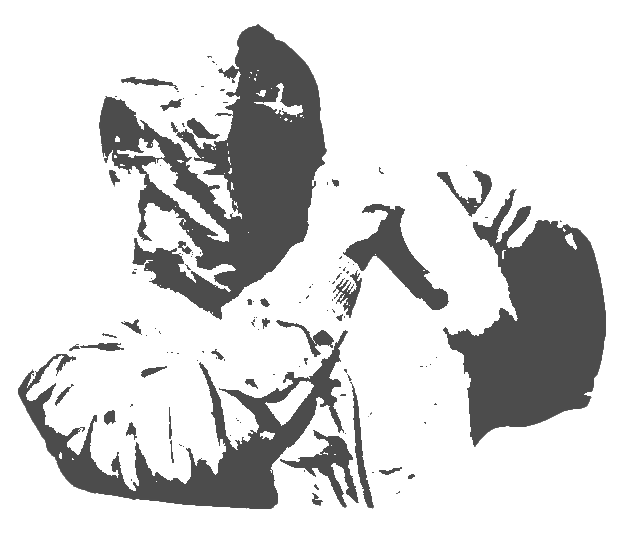
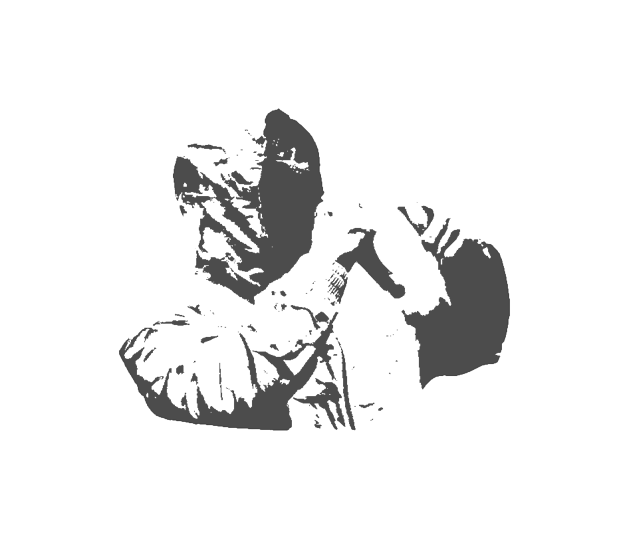
commit changes

Changed region(s): [[0.0303, 0.0297, 0.9682, 0.9517], [0.6959, 0.2974, 0.7261, 0.3569], [0.4841, 0.9219, 0.5143, 0.9517]]

diff --git a/docs/index.html b/docs/index.html
@@ -23,7 +23,7 @@
             height: max-content;
             padding: 10px;
             margin: 10px;
-            opacity: 0.9; /* Set default transparency for all image containers */
+            opacity: 1; /* Set default transparency for all image containers */
             transition: opacity 0.3s ease; /* Smooth transition for opacity */
         }
 
@@ -126,7 +126,7 @@
 
     <!-- Image Containers with Text Boxes -->
     <div class="image-container" >
-        <img src="images/no background/transparent/snoee.png" alt="image 1" class="image" onclick="toggleTextBox(this)">
+        <img src="images/smaller/snoee.png" alt="image 1" class="image" onclick="toggleTextBox(this)">
         <div class="text-box">   
              2021: Next to a car park in Parra I watched Snoee Badman — the first Australian to release an EP from inside a maximum-security prison.
             I remember him wearing all white and with his face covered. It was a celebration of someone defiantly creative, resisting the systems silencing.
@@ -137,7 +137,7 @@ Fred Moten wrote in a paper on fugitive aesthetics about the potential for art t
     </div>
 
     <div class="image-container" >
-        <img src="images/no background/transparent/busbybig.png" alt="Image 2" class="image" onclick="toggleTextBox(this)">
+        <img src="images/smaller/busbybig.png" alt="Image 2" class="image" onclick="toggleTextBox(this)">
         <div class="text-box"> 
             
             Midway through 2024 I showed a sculptural work in a gallery.
@@ -170,7 +170,7 @@ Fred Moten wrote in a paper on fugitive aesthetics about the potential for art t
 </div>
 
     <div class="image-container">
-        <img src="images/no background/transparent/caofei.png" alt="Image 4" class="image" onclick="toggleTextBox(this)">
+        <img src="images/smaller/caofei.png" alt="Image 4" class="image" onclick="toggleTextBox(this)">
         <div class="text-box">   
             
             Recently under a blog titled 'refusal', my friend posted a Cao Fei short film.
@@ -190,7 +190,7 @@ Fred Moten wrote in a paper on fugitive aesthetics about the potential for art t
    </div>
 
     <div class="image-container" >
-        <img src="images/no background/transparent/oat dealer.png" alt="Image 5" class="image" onclick="toggleTextBox(this)">
+        <img src="images/smaller/oat dealer.png" alt="Image 5" class="image" onclick="toggleTextBox(this)">
         <div class="text-box">
             September 21st, an alternative milk company advertises their brand with pasteups. The images are mugshots; the text states “oat dealer”...
             There is something so surface-level about adopting this aesthetic to advertise oat milk. To perform alterity.
@@ -214,7 +214,7 @@ Fred Moten wrote in a paper on fugitive aesthetics about the potential for art t
  </div>
 
  <div class="image-container" >
-    <img src="images/no background/transparent/survei.png" alt="Image 6" class="image" onclick="toggleTextBox(this)">
+    <img src="images/smaller/sur.png" alt="Image 6" class="image" onclick="toggleTextBox(this)">
     <div class="text-box"> 
         
         James C. Scott, in 'Seeing Like a State', explores how the modern state uses data to make societies legible for the purposes of control.
@@ -234,7 +234,7 @@ Fred Moten wrote in a paper on fugitive aesthetics about the potential for art t
 </div>
 
 <div class="image-container" >
-    <img src="images/no background/transparent/fred.png" alt="Image 7" class="image" onclick="toggleTextBox(this)">
+    <img src="images/smaller/fred.png" alt="Image 7" class="image" onclick="toggleTextBox(this)">
     <div class="text-box">
         
         I never considered that the term fugitive isn’t static.
@@ -247,7 +247,7 @@ Fred Moten wrote in a paper on fugitive aesthetics about the potential for art t
 
 
 <div class="image-container" >
-    <img src="images/no background/transparent/writeres wrokshiop.png" alt="Image 9" class="image" onclick="toggleTextBox(this)">
+    <img src="images/smaller/writeres wrokshiop.png" alt="Image 9" class="image" onclick="toggleTextBox(this)">
     <div class="text-box">
         
         I shared a draft of this project in a writers workshop. The group wanted me to remove the obstructions of personality; to share more of my thoughts.
@@ -259,7 +259,7 @@ Fred Moten wrote in a paper on fugitive aesthetics about the potential for art t
 </div>
 
 <div class="image-container" >
-    <img src="images/no background/transparent/Saidiya.png" alt="Image 10" class="image" onclick="toggleTextBox(this)">
+    <img src="images/smaller/Saidiya.png" alt="Image 10" class="image" onclick="toggleTextBox(this)">
     <div class="text-box"> 
         Fugitivity is something I've considered a lot after reading Andrew Brooks review of 'Wayward Lives'.
         In reviewing Saidiya Hartman, Brooks defines fugitivity for the reader as an attempt to resist the constraints imposed by dominant systems of power.
@@ -268,7 +268,7 @@ The fugitive attempts to live unbound by the oppressive conditions forced upon t
 </div>
 
 <div class="image-container" >
-    <img src="images/no background/transparent/google-logo.png.png" alt="Image 10" class="image" onclick="toggleTextBox(this)">
+    <img src="images/smaller/google.png" alt="Image 10" class="image" onclick="toggleTextBox(this)">
     <div class="text-box"> 
         
         Jack Halberstam introduced me to the idea of 'resisting legibility'. 
@@ -284,7 +284,7 @@ Paul Soulellis, an academic writing on the resistance in publishing has a more o
 </div>
 
 <div class="image-container" >
-    <img src="images/no background/transparent/michel de certeau.png" alt="Image 11" class="image" onclick="toggleTextBox(this)">
+    <img src="images/smaller/michel de certeau.png" alt="Image 11" class="image" onclick="toggleTextBox(this)">
     <div class="text-box">       
         Last year I wrote about primitive hypertext as a methodology for 'creative resistance'.
            
